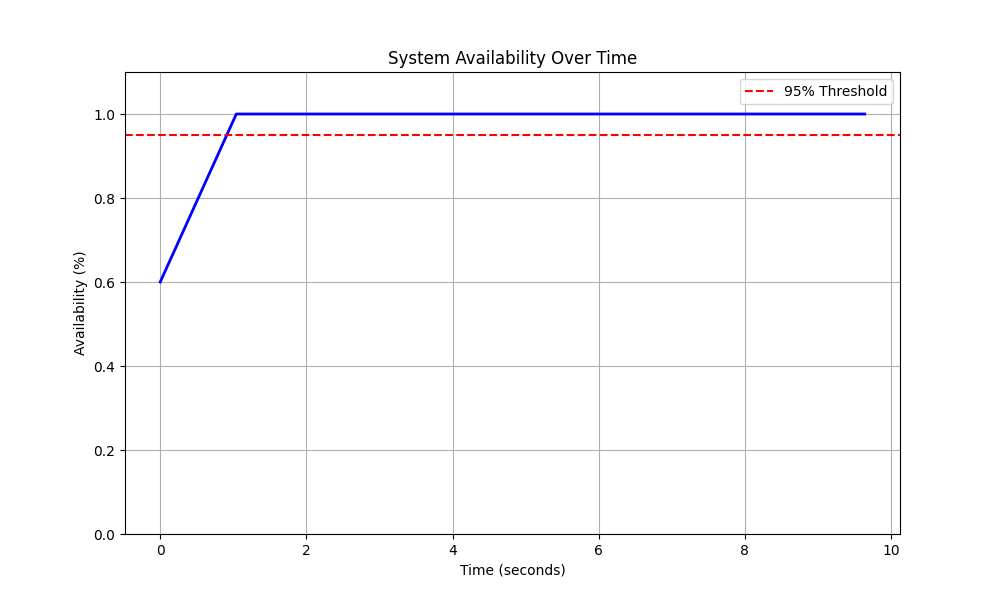
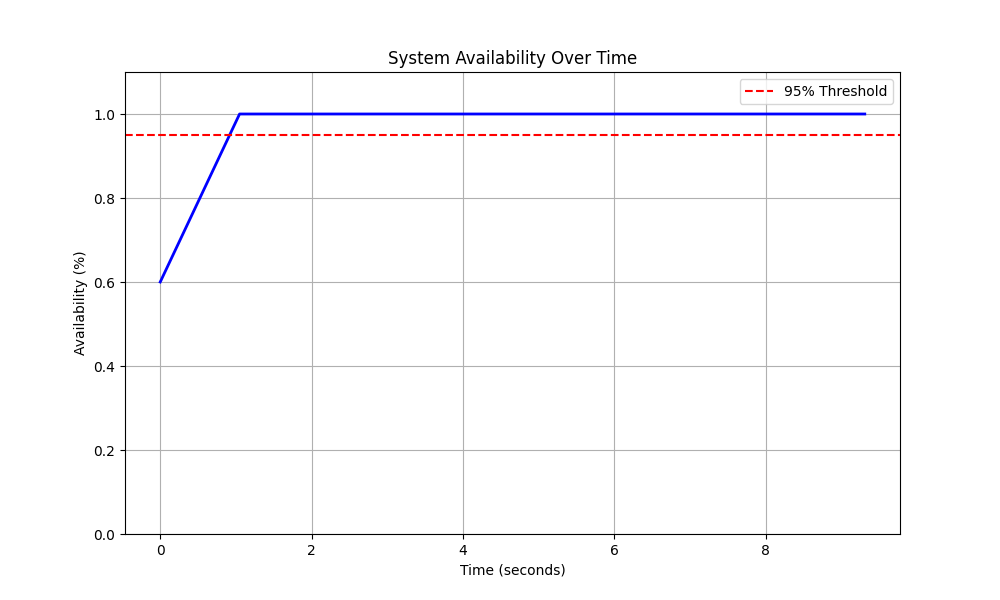
Metrics calculation

diff --git a/tests/test_comprehensive_pytest.py b/tests/test_comprehensive_pytest.py
@@ -1,64 +1,66 @@
 import pytest
 import asyncio
 import logging
-import matplotlib.pyplot as plt
+import json
+from datetime import datetime
+from pathlib import Path
+from .visualization.reliability_graphs import ReliabilityVisualizer
 from .test_system_comprehensive import ComprehensiveSystemTest
 
 @pytest.mark.asyncio
 async def test_comprehensive_system():
-    logging.basicConfig(level=logging.INFO)
+    # Setup test directory
+    timestamp = datetime.now().strftime("%Y%m%d_%H%M%S")
+    test_dir = Path(f"test_results/{timestamp}")
+    test_dir.mkdir(parents=True, exist_ok=True)
+    
+    # Configure logging
+    logging.basicConfig(
+        level=logging.INFO,
+        handlers=[
+            logging.FileHandler(test_dir / "test.log"),
+            logging.StreamHandler()
+        ]
+    )
+    
+    logger = logging.getLogger("TestRunner")
+    visualizer = ReliabilityVisualizer(str(test_dir))
     tester = ComprehensiveSystemTest()
+    
     try:
+        # Run setup and tests
         await tester.setup()
-        await asyncio.sleep(5)
-
-        if not await tester.verify_services():
-            pytest.fail("Services failed to start properly")
-
-        # Run tests
-        await tester.test_normal_operation()
-        await tester.test_fault_tolerance()
-        await tester.test_security()
-        await tester.test_data_integrity()
-        await tester.test_load_balancing()
-
-        # Calculate and verify reliability metrics
+        
+        # Run core tests
+        test_results = {
+            'normal_operation': await tester.test_normal_operation(),
+            'fault_tolerance': await tester.test_fault_tolerance(),
+            'security': await tester.test_security(),
+            'data_integrity': await tester.test_data_integrity(),
+            'load_balancing': await tester.test_load_balancing()
+        }
+        
+        # Calculate metrics
         metrics = await tester.calculate_reliability_metrics()
         
-        # Plot availability graph
-        plot_availability_graph(metrics['availability_timeline'])
+        # Generate visualizations
+        visualizer.plot_availability_timeline(metrics['availability_timeline'])
+        visualizer.plot_reliability_metrics(metrics)
+        
+        # Save test results
+        with open(test_dir / "test_results.json", "w") as f:
+            json.dump({
+                'test_results': test_results,
+                'metrics': {k: v for k, v in metrics.items() if isinstance(v, (int, float))}
+            }, f, indent=2)
         
         # Assert minimum reliability requirements
         assert metrics['mttr'] <= 5.0, "Mean Time To Recovery above 5 seconds"
+        assert metrics['uptime_percentage'] >= 99.0, "Uptime percentage below 99%"
+        assert metrics['availability'] >= 99.0, "System availability below 99%"
         
     except Exception as e:
-        logging.error(f"Test failed with error: {e}")
+        logger.error(f"Test failed with error: {e}")
         raise
     finally:
-        await tester.cleanup()
-
-def plot_availability_graph(availability_timeline):
-    """
-    Plot system availability over time
-    
-    Args:
-        availability_timeline: List of tuples containing (timestamp, availability_value)
-    """
-    timestamps, availability_values = zip(*availability_timeline)
-    
-    plt.figure(figsize=(10, 6))
-    plt.plot(timestamps, availability_values, 'b-', linewidth=2)
-    plt.grid(True)
-    
-    plt.title('System Availability Over Time')
-    plt.xlabel('Time (seconds)')
-    plt.ylabel('Availability (%)')
-    plt.ylim(0, 1.1)  # Set y-axis from 0 to 110%
-    
-    # Add horizontal line at 95% availability threshold
-    plt.axhline(y=0.95, color='r', linestyle='--', label='95% Threshold')
-    plt.legend()
-    
-    # Save the plot
-    plt.savefig('system_availability.png')
-    plt.close() 
+        await tester.cleanup() 

diff --git a/tests/test_system_comprehensive.py b/tests/test_system_comprehensive.py
@@ -487,23 +487,59 @@ class ComprehensiveSystemTest:
             return False
 
     async def calculate_reliability_metrics(self):
-        """Calculate system reliability metrics"""
+        """Calculate comprehensive system reliability metrics"""
+        current_time = time.time()
+        total_runtime = current_time - self.test_start_time
+        
         metrics = {
+            'mtbf': 0.0,  # Mean Time Between Failures
             'mttr': 0.0,  # Mean Time To Recovery
-            'availability_timeline': [],  # Add this line
+            'availability': 0.0,  # System Availability
+            'failure_rate': 0.0,  # Failures per hour
+            'availability_timeline': [],
+            'uptime_percentage': 0.0
         }
         
-        # Collect availability data points over time
-        # This is just an example - adjust according to your actual monitoring logic
-        start_time = time.time()
-        for _ in range(10):  # Collect 10 data points
-            timestamp = time.time() - start_time
-            availability = await self.check_system_availability()  # You'll need to implement this
-            metrics['availability_timeline'].append((timestamp, availability))
-            await asyncio.sleep(1)  # Wait 1 second between measurements
+        # Calculate MTTR (Mean Time To Recovery)
+        if len(self.recovery_timestamps) > 0 and len(self.failure_timestamps) > 0:
+            recovery_times = []
+            for i in range(min(len(self.recovery_timestamps), len(self.failure_timestamps))):
+                recovery_time = self.recovery_timestamps[i] - self.failure_timestamps[i]
+                recovery_times.append(recovery_time)
             
-        # Calculate MTTR and other metrics
-        # ... your existing metrics calculations ...
+            metrics['mttr'] = sum(recovery_times) / len(recovery_times) if recovery_times else 0
+        
+        # Calculate MTBF (Mean Time Between Failures)
+        if len(self.failure_timestamps) > 1:
+            failure_intervals = []
+            for i in range(1, len(self.failure_timestamps)):
+                interval = self.failure_timestamps[i] - self.failure_timestamps[i-1]
+                failure_intervals.append(interval)
+            
+            metrics['mtbf'] = sum(failure_intervals) / len(failure_intervals)
+        elif len(self.failure_timestamps) == 1:
+            metrics['mtbf'] = self.failure_timestamps[0] - self.test_start_time
+        
+        # Calculate failure rate (failures per hour)
+        hours_running = total_runtime / 3600
+        metrics['failure_rate'] = len(self.failure_timestamps) / hours_running if hours_running > 0 else 0
+        
+        # Calculate uptime percentage
+        metrics['uptime_percentage'] = ((total_runtime - self.total_downtime) / total_runtime) * 100 if total_runtime > 0 else 0
+        
+        # Collect availability data points
+        availability_data = await self.check_system_availability()
+        metrics['availability'] = availability_data
+        metrics['availability_timeline'].append((current_time - self.test_start_time, availability_data))
+        
+        self.logger.info(f"""
+        System Reliability Metrics:
+        - MTBF: {metrics['mtbf']:.2f} seconds
+        - MTTR: {metrics['mttr']:.2f} seconds
+        - Failure Rate: {metrics['failure_rate']:.2f} failures/hour
+        - Uptime: {metrics['uptime_percentage']:.2f}%
+        - Current Availability: {metrics['availability']:.2f}%
+        """)
         
         return metrics
 

diff --git a/tests/visualization/reliability_graphs.py b/tests/visualization/reliability_graphs.py
@@ -1,0 +1,60 @@
+import matplotlib.pyplot as plt
+from datetime import datetime
+import os
+
+class ReliabilityVisualizer:
+    def __init__(self, output_dir="test_results"):
+        self.output_dir = output_dir
+        os.makedirs(output_dir, exist_ok=True)
+        
+        # Set default figure size
+        plt.rcParams['figure.figsize'] = [12, 6]
+    
+    def plot_availability_timeline(self, timeline_data, save=True):
+        """Plot system availability over time"""
+        times, availabilities = zip(*timeline_data)
+        
+        plt.figure()
+        plt.plot(times, availabilities, '-o', linewidth=2, color='blue')
+        plt.title('System Availability Over Time')
+        plt.xlabel('Time (seconds)')
+        plt.ylabel('Availability (%)')
+        plt.grid(True)
+        
+        if save:
+            plt.savefig(f"{self.output_dir}/availability_timeline.png")
+            plt.close()
+    
+    def plot_reliability_metrics(self, metrics, save=True):
+        """Create a comprehensive reliability dashboard"""
+        fig, ((ax1, ax2), (ax3, ax4)) = plt.subplots(2, 2, figsize=(15, 10))
+        
+        # MTBF vs MTTR
+        ax1.bar(['MTBF', 'MTTR'], [metrics['mtbf'], metrics['mttr']], color=['green', 'red'])
+        ax1.set_title('MTBF vs MTTR')
+        ax1.set_ylabel('Seconds')
+        ax1.grid(True)
+        
+        # Failure Rate
+        ax2.bar(['Failure Rate'], [metrics['failure_rate']], color='orange')
+        ax2.set_title('Failure Rate (per hour)')
+        ax2.grid(True)
+        
+        # Uptime Percentage
+        ax3.pie([metrics['uptime_percentage'], 100 - metrics['uptime_percentage']], 
+                labels=['Uptime', 'Downtime'],
+                colors=['lightgreen', 'lightcoral'],
+                autopct='%1.1f%%')
+        ax3.set_title('System Uptime/Downtime')
+        
+        # Current Availability
+        ax4.bar(['Availability'], [metrics['availability']], color='blue')
+        ax4.set_title('Current System Availability')
+        ax4.set_ylabel('Percentage')
+        ax4.grid(True)
+        
+        plt.tight_layout()
+        
+        if save:
+            plt.savefig(f"{self.output_dir}/reliability_dashboard.png")
+            plt.close() 
